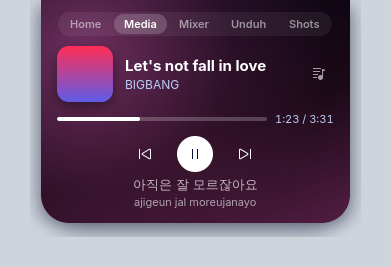
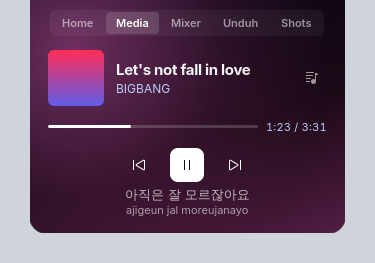
Release 0.5.6
Drop open-notch box-shadow that clipped at the layer-shell margin, round the right corners of lyric rows, center the media column alongside the lyrics pane, and refresh docs screenshots.

diff --git a/src/style.rs b/src/style.rs
@@ -10,9 +10,9 @@ window { background: transparent; }
   border-radius: 0 0 14px 14px; padding: 5px 14px 7px; min-width: 150px;
   margin: 0 14px 14px; box-shadow: none;
   border: 1px solid rgba(255,255,255,0.07); border-top: none;
-  transition: border-radius 180ms cubic-bezier(0.32, 0.72, 0, 1), padding 180ms cubic-bezier(0.32, 0.72, 0, 1), min-width 180ms cubic-bezier(0.32, 0.72, 0, 1), box-shadow 180ms cubic-bezier(0.32, 0.72, 0, 1);
+  transition: border-radius 180ms cubic-bezier(0.32, 0.72, 0, 1), padding 180ms cubic-bezier(0.32, 0.72, 0, 1), min-width 180ms cubic-bezier(0.32, 0.72, 0, 1);
 }
-.notch.open { border-radius: 0 0 18px 18px; padding: 4px 18px 16px; box-shadow: 0 6px 14px rgba(0,0,0,0.42); }
+.notch.open { border-radius: 0 0 18px 18px; padding: 4px 18px 16px; }
 .notch.thin { padding: 0; min-height: 5px; box-shadow: none; border: none; }
 .notch.music { min-width: 272px; }
 .compact { font-size: 13px; font-weight: 600; letter-spacing: 0px; }
@@ -71,9 +71,9 @@ progressbar.song-trace progress { min-height: 2px; min-width: 0; border-radius: 
 
 .notch scrolledwindow, .notch list, .notch row { background: none; color: #fff; }
 .notch scrollbar { opacity: 0; }
-.notch row { padding: 0; border-radius: 4px; }
+.notch row { padding: 0; border-radius: 0 6px 6px 0; }
 .notch row:hover { background: rgba(255,255,255,0.06); }
-.lrc { padding: 5px 10px; border-radius: 0; border-left: 2px solid transparent; color: #fff; opacity: 0.28; transition: opacity 160ms cubic-bezier(0.23, 1, 0.32, 1), background 160ms cubic-bezier(0.23, 1, 0.32, 1), border-color 160ms cubic-bezier(0.23, 1, 0.32, 1); }
+.lrc { padding: 5px 10px; border-radius: 0 6px 6px 0; border-left: 2px solid transparent; color: #fff; opacity: 0.28; transition: opacity 160ms cubic-bezier(0.23, 1, 0.32, 1), background 160ms cubic-bezier(0.23, 1, 0.32, 1), border-color 160ms cubic-bezier(0.23, 1, 0.32, 1); }
 .lrc .lrc-main { font-size: 12px; font-weight: 500; color: #fff; }
 .lrc .lrc-rom { font-size: 10px; letter-spacing: 0.2px; color: {MUTED}; opacity: 0.75; }
 .lrc.mid { opacity: 0.45; }

diff --git a/src/main.rs b/src/main.rs
@@ -353,6 +353,7 @@ fn build_ui(app: &gtk::Application) {
         .visible(false)
         .build();
     let body = gtk::Box::new(gtk::Orientation::Vertical, 10);
+    body.set_valign(gtk::Align::Center);
     body.append(&player_btn);
     body.append(&head);
     body.append(&seek_row);
@@ -459,7 +460,7 @@ fn build_ui(app: &gtk::Application) {
         .hscrollbar_policy(gtk::PolicyType::Never)
         // min-content-width is ignored without a horizontal scrollbar, so size it directly.
         .width_request(260)
-        .height_request(150)
+        .height_request(138)
         .margin_start(16)
         .build();
     let lyrics_rev = gtk::Revealer::builder()
